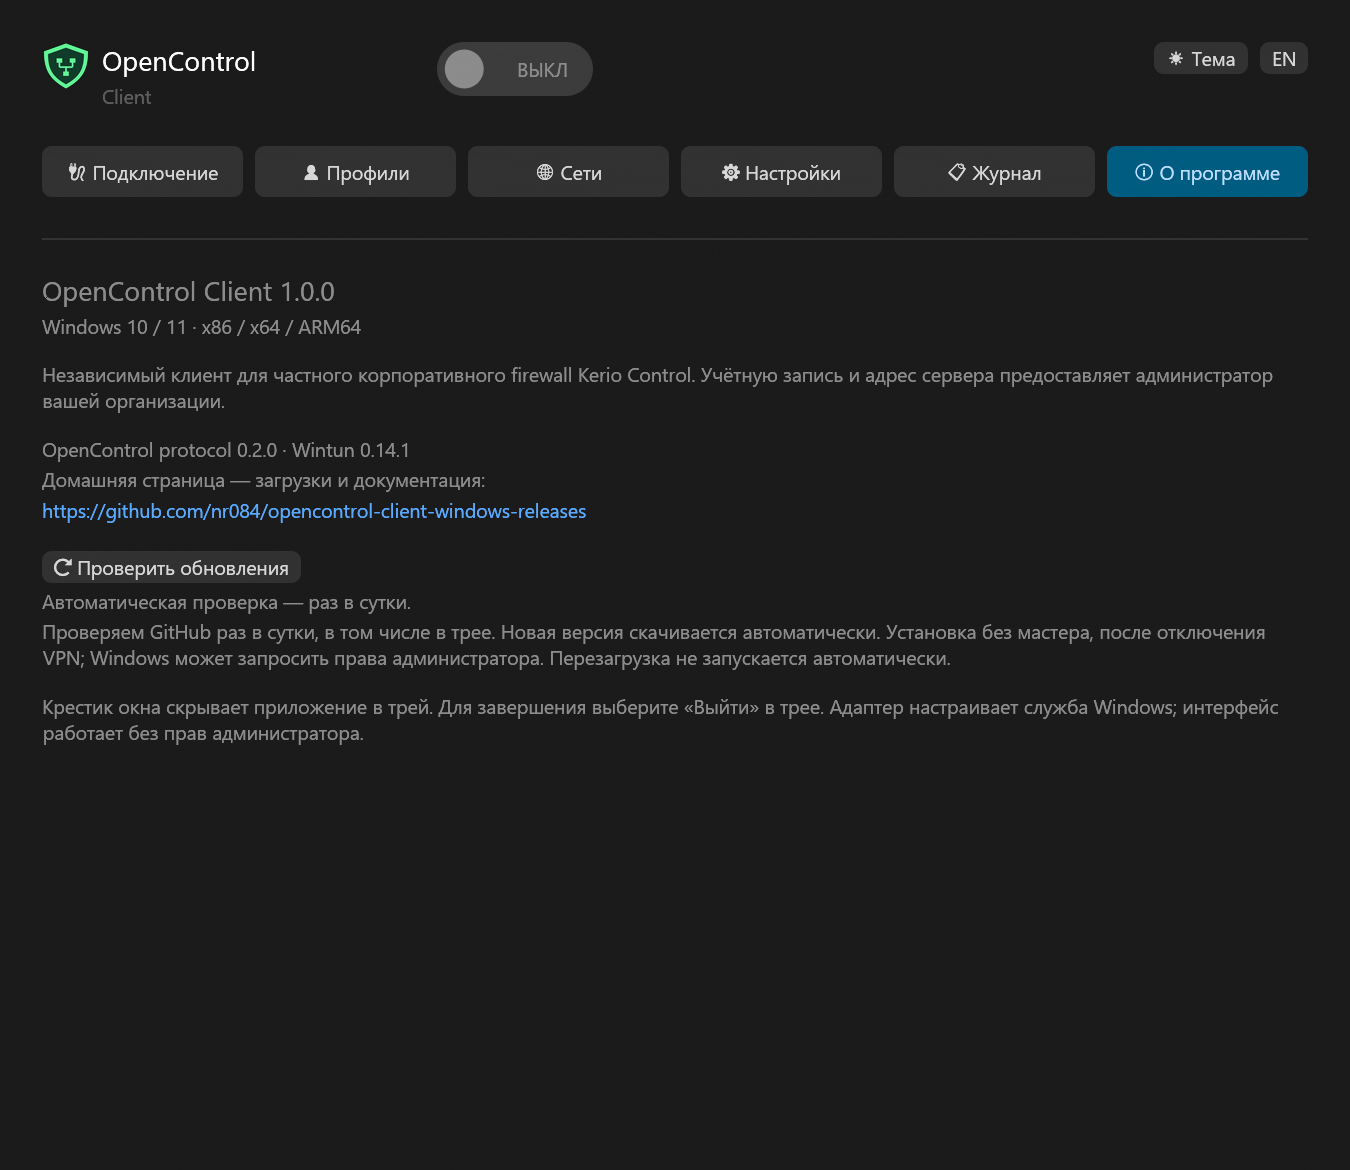
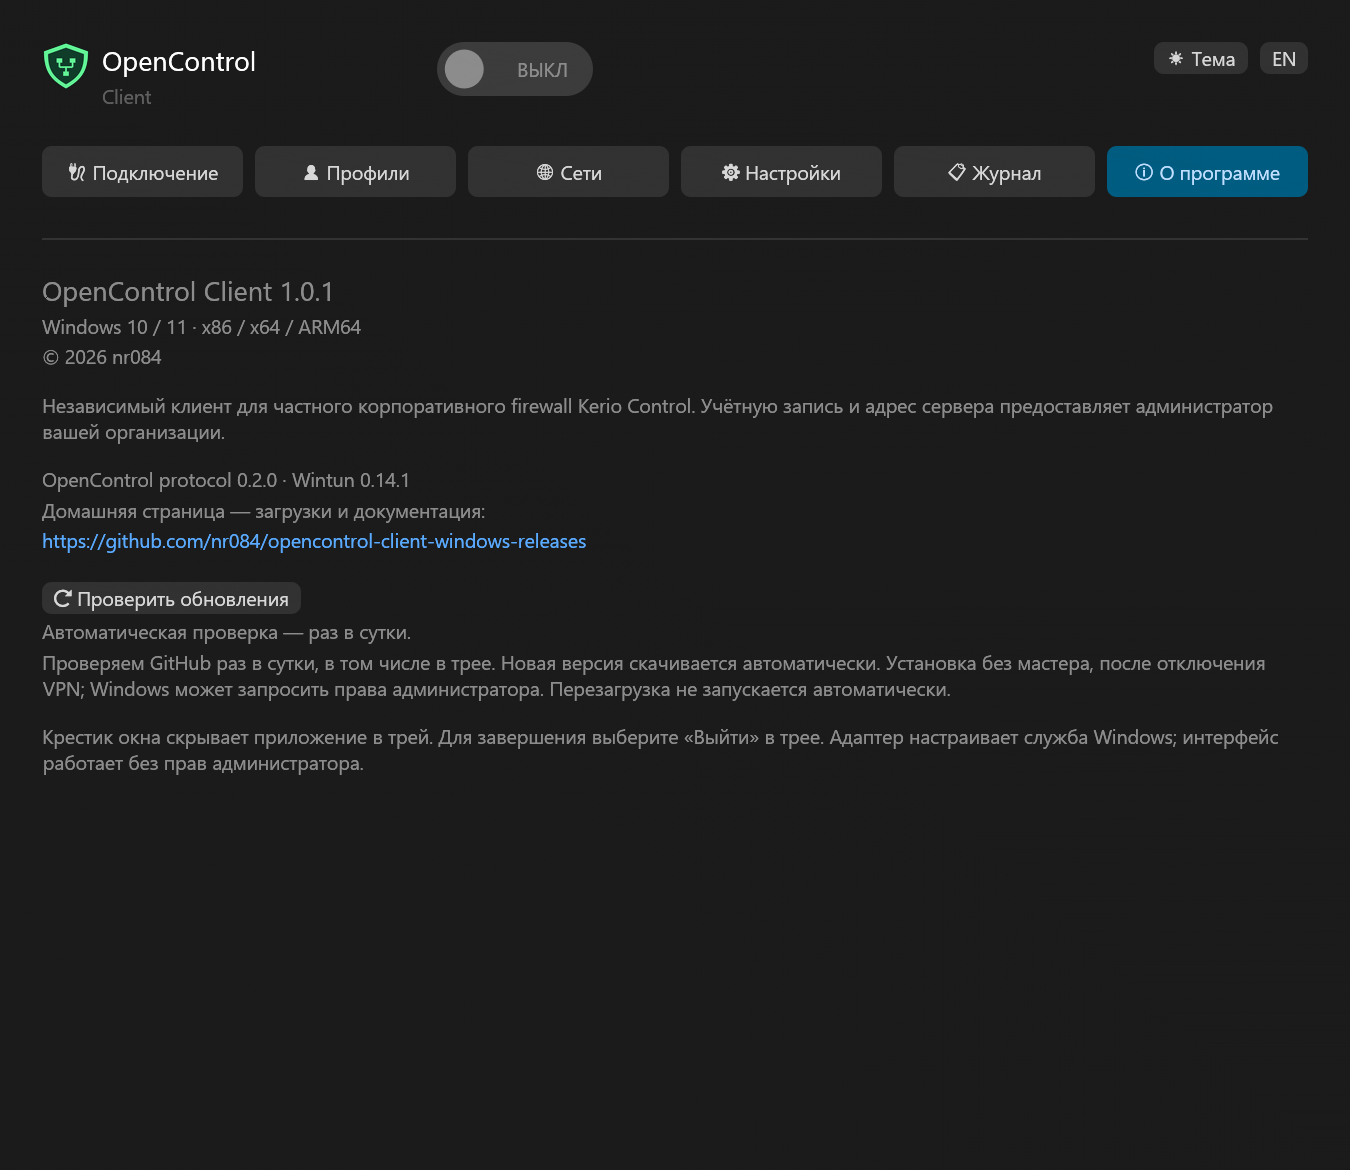
Release 1.0.1: actual client version, tray profile switching and tunnel history

Changed region(s): [[0.0311, 0.2769, 0.9333, 0.6769]]

diff --git a/README.en.md b/README.en.md
@@ -2,7 +2,7 @@
 <h1 align="center">OpenControl Client</h1>
 <p align="center">Your organization’s network · Windows 10 / 11</p>
 <p align="center"><a href="README.md">Русский</a> · <b>English</b></p>
-<p align="center"><a href="https://github.com/nr084/opencontrol-client-windows-releases/releases/latest">Download 1.0.0</a> · <a href="RELEASE_NOTES.md">What’s new</a> · <a href="SHA256SUMS">SHA256</a></p>
+<p align="center"><a href="https://github.com/nr084/opencontrol-client-windows-releases/releases/latest">Download 1.0.1</a> · <a href="RELEASE_NOTES.md">What’s new</a> · <a href="SHA256SUMS">SHA256</a></p>
 
 OpenControl connects your PC to a private corporate network through Kerio Control. Your organization supplies the server address and account. This independent client is not an official Kerio/GFI product or a provider of VPN access.
 
@@ -14,9 +14,9 @@ Each MSI includes Russian and English. **Russian is the default on first launch*
 
 | Computer | Download |
 |---|---|
-| Intel / AMD 64-bit PC | [x64](https://github.com/nr084/opencontrol-client-windows-releases/releases/download/v1.0.0/OpenControl-client-1.0.0-windows-x64.msi) |
-| Windows 10, 32-bit | [x86](https://github.com/nr084/opencontrol-client-windows-releases/releases/download/v1.0.0/OpenControl-client-1.0.0-windows-x86.msi) |
-| Windows on ARM, including a Windows 11 VM on Mac | [ARM64](https://github.com/nr084/opencontrol-client-windows-releases/releases/download/v1.0.0/OpenControl-client-1.0.0-windows-arm64.msi) |
+| Intel / AMD 64-bit PC | [x64](https://github.com/nr084/opencontrol-client-windows-releases/releases/download/v1.0.1/OpenControl-client-1.0.1-windows-x64.msi) |
+| Windows 10, 32-bit | [x86](https://github.com/nr084/opencontrol-client-windows-releases/releases/download/v1.0.1/OpenControl-client-1.0.1-windows-x86.msi) |
+| Windows on ARM, including a Windows 11 VM on Mac | [ARM64](https://github.com/nr084/opencontrol-client-windows-releases/releases/download/v1.0.1/OpenControl-client-1.0.1-windows-arm64.msi) |
 
 1. Install the app. Desktop and Start menu shortcuts are created by default.
 2. Add a connection in **Profiles**, or import your CFG in **Settings**.
@@ -40,6 +40,14 @@ Once connected, the window hides in the tray and a notification identifies the t
 | Activity | Connection events, without passwords or packet contents |
 
 Windows may put the icon in its overflow area. Notification visibility depends on Windows settings. After an established connection drops, the client attempts to restore it and retains session traffic totals.
+
+## Connection history
+
+![Activity](assets/activity-en.png)
+
+The activity log keeps the time, tunnel name, connections, disconnections and errors across profile changes: up to 500 events in memory until exit, newest first, using Windows local time. The client reports its actual version to the server: **1.0.1 · build 2**, visible on the next connection.
+
+With multiple profiles, use **Switch profile** in the tray menu: choosing a profile disconnects the old tunnel and connects the selected one automatically. A password or certificate prompt appears only when needed.
 
 ## Profiles and QR
 
@@ -92,7 +100,7 @@ Uninstall through **Windows Settings → Apps → OpenControl Client → Uninsta
 
 The Wintun driver is officially signed. Project EXE/MSI files are not yet publisher-signed. Check [SHA256SUMS](SHA256SUMS).
 
-72 automated tests, three architecture builds and MSI content checks passed. Retry after authentication failure was tested with a synthetic Windows pipe; native tray updates were also checked. Full operation on the target ARM VM and a real firewall remains outside these tests. See [VALIDATION.md](VALIDATION.md).
+75 automated tests, three architecture builds and MSI content checks passed. Retry after authentication failure was tested with a synthetic Windows pipe; native tray updates were also checked. Full operation on the target ARM VM and a real firewall remains outside these tests. See [VALIDATION.md](VALIDATION.md).
 
 All screenshots contain fictional profiles. This repository publishes installers and documentation; client sources are private. The [protocol library](https://github.com/nr084/opencontrol-protocol) is a separate public project.
 
@@ -104,3 +112,5 @@ All screenshots contain fictional profiles. This repository publishes installers
 ![About](assets/about-en.png)
 
 </details>
+
+© 2026 nr084

diff --git a/VALIDATION.md b/VALIDATION.md
@@ -1,4 +1,4 @@
-# Validation / Проверки — 1.0.0
+# Validation / Проверки — 1.0.1
 
 Date / Дата: 2026-10-16.
 
@@ -7,7 +7,7 @@ Date / Дата: 2026-10-16.
 | Rust stable | 1.99.1, upstream check passed |
 | OpenControl Protocol | 0.2.0, upstream HEAD 35a5c848fb2a25a64da36268026906ce3757b974 |
 | Format + clippy all targets, warnings denied | Passed / Пройдено |
-| Unit + ROUTES regression tests | 68 + 4 = 72 passed |
+| Unit + ROUTES regression tests | 71 + 4 = 75 passed |
 | Native release builds, static CRT | x86 / x64 / ARM64 passed |
 | MSI payloads | Six allowlisted files per package; extracted EXE SHA256 matches build |
 | MSI platform/language | Intel / x64 / Arm64; Russian installer 1049; application RU/EN |
@@ -40,3 +40,5 @@ Reissue checks: native Windows named-pipe regression reproduces EOF/closing-pipe
 Branding rebuild: all three MSI ProductName, installation folder, shortcut names, service display name and extracted EXE ProductName/FileDescription checked against OpenControl Client. Installed EXE filename is OpenControl-client.exe. Embedded information/warning ICO streams match the new transparent multi-resolution assets. Fresh synthetic RU/EN screenshots rendered at 150%, including About. Native installer dialog appearance on physical DPI settings remains unverified.
 
 Updater checks: numeric stable-version comparison, architecture selection, fixed-repository assets and HTTPS redirects, checksum ambiguity rejection, MSI corruption detection and native deny-write/delete file locking passed. Native tray updates with and without the update badge passed. Live public GitHub metadata check correctly reports no newer version at 1.0.0; no MSI was downloaded or installed by this check. Silent upgrade, UAC cancellation and restart on a clean Windows VM remain untested. GitHub checksum verification is an integrity check, not an independent publisher signature. Fresh RU/EN About screenshots show the manual update button and home page.
+
+1.0.1: wire metadata version matches Cargo; build 2 and Windows OS identity checked. Synthetic profile-switch tests verify cleanup waiting, stable profile identity, duplicate/stale action rejection and cancellation. History tests verify timestamps, tunnel names, loss-of-connection entries and deduplication. Native tray submenu add/update/remove and RU/EN updates passed. Actual remote administration table and live switching between corporate servers were not tested. © 2026 nr084 is included in About and EXE resources.

diff --git a/RELEASE_NOTES.md b/RELEASE_NOTES.md
@@ -1,3 +1,23 @@
+# OpenControl Client 1.0.1
+
+## Русский
+
+- Сервер получает актуальную версию Windows-клиента: 1.0.1 · build 2 вместо постоянного 0.1.0 · build 1. Версия берётся из сборки и обновляется при следующем подключении.
+- При нескольких профилях в трее есть «Сменить профиль». Одно нажатие на другой профиль отключает текущий туннель и автоматически подключает выбранный после очистки сети. Повторные действия не запускают параллельные сеансы. При необходимости открывается запрос пароля или сертификата.
+- Журнал показывает дату, время Windows, название туннеля, подключения, отключения и ошибки. Последние 500 событий сохраняются в памяти между переключениями профилей до выхода из клиента.
+- «© 2026 nr084» в разделе «О программе» и свойствах EXE.
+- MSI для x86, x64 и ARM64; RU/EN. Обновлены документация и скриншоты.
+
+## English
+
+- The server receives the actual Windows client version: 1.0.1 · build 2 instead of the hard-coded 0.1.0 · build 1. Version metadata comes from the build and updates on the next connection.
+- Multiple profiles enable the tray’s Switch profile menu. Selecting another profile disconnects the current tunnel, completes network cleanup and connects the chosen profile automatically. Duplicate actions cannot start overlapping sessions; credentials or certificate consent are requested only when needed.
+- Activity shows Windows local date/time, tunnel name, connections, disconnections and errors. Up to 500 events remain in memory across profile switches until application exit.
+- © 2026 nr084 in About and EXE properties.
+- x86, x64 and ARM64 MSI, RU/EN; refreshed documentation and screenshots.
+
+---
+
 # OpenControl Client 1.0.0
 
 ## Русский

diff --git a/PRIVACY.md b/PRIVACY.md
@@ -26,3 +26,6 @@ OpenControl для Windows отправляет учётные данные ук
 
 
 Проверка обновлений автоматически раз в сутки и по кнопке обращается к публичному GitHub API и серверам загрузки GitHub. Передаются обычные данные HTTPS-запроса, включая IP-адрес и версию клиента в User-Agent. Профили, серверы VPN, логины, пароли и журналы туда не отправляются. Время проверки и номер уведомлённой версии сохраняются локально; MSI временно хранится в локальном кэше обновлений.
+
+
+Журнал соединений содержит время события, пользовательское название туннеля и состояние/ошибку. До 500 событий хранятся только в памяти текущего запуска; между профилями история сохраняется, после выхода очищается. Пароли и содержимое трафика не записываются.

diff --git a/PRIVACY.en.md b/PRIVACY.en.md
@@ -26,3 +26,6 @@ When explicitly selected by the user, export and two-way synchronization write c
 
 
 Manual and daily automatic update checks contact the public GitHub API and GitHub download servers. Requests expose normal HTTPS request information, including the IP address and client version in User-Agent. VPN profiles, server addresses, usernames, passwords and logs are not sent. The check time and notified version are stored locally; MSI files are temporarily cached locally.
+
+
+The connection log contains event times, user-defined tunnel names and states/errors. Up to 500 events stay in memory for the current run, survive profile switching and are cleared on exit. Passwords and packet contents are not recorded.
